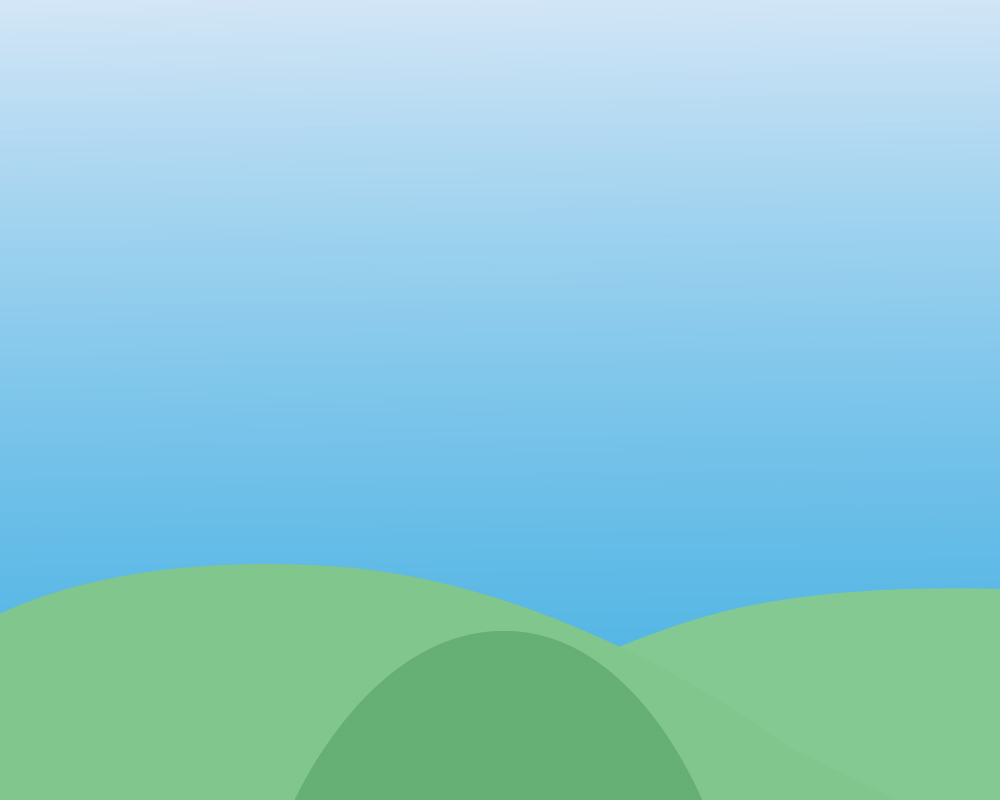
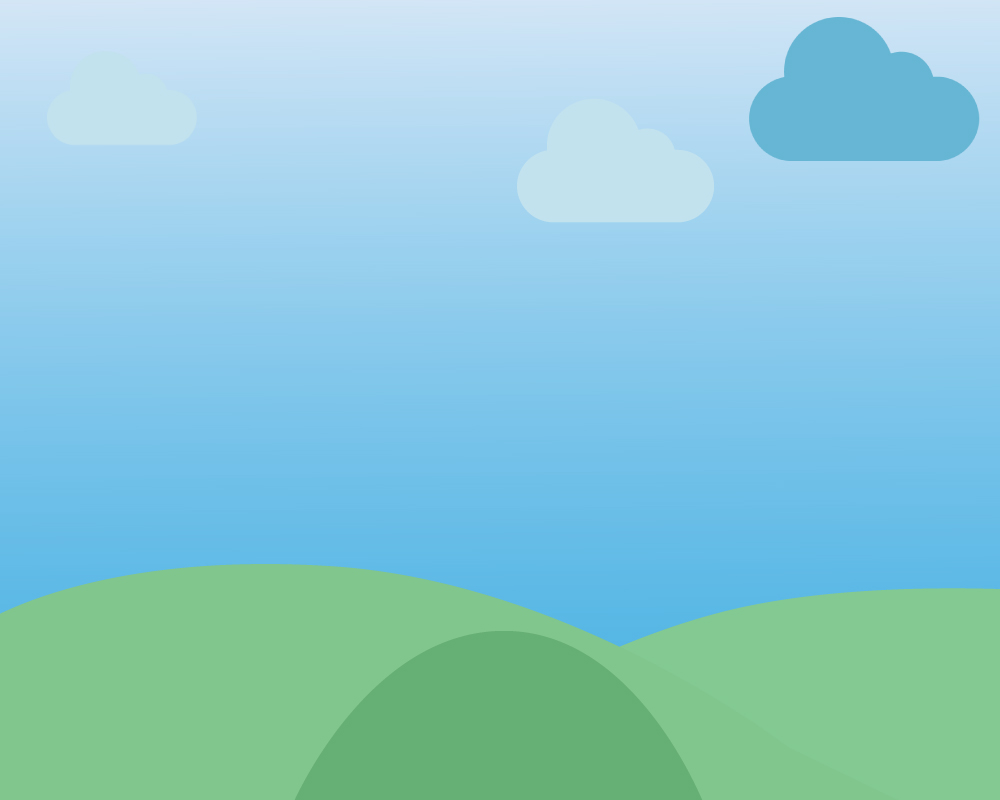
Clouds and sun installed

Changed region(s): [[0.744, 0.0, 0.992, 0.2188], [0.496, 0.2188, 0.713, 0.2812]]

diff --git a/css/main.css b/css/main.css
@@ -4,10 +4,75 @@ body {
   display: flex;
   align-items: center;
   justify-content: center;
-
+  background-color: #72C0E5;
 }
 .display{
   width: 1000px;
   height: 800px;
   background-image: url(../images/simple-background.jpg);
+}
+.size--normal {
+  margin: 40px;
+  max-width: 250px;
+}
+.sun {
+  animation: sun-slide-in 1.5s ease-out forwards, fade-in .8s;
+}
+.cloud {
+  animation: cloud-slide-in 2s ease-out forwards, fade-in .8s;
+}
+.cloud--small {
+  animation: small-cloud-slide-in 1s ease-out forwards, fade-in .8s;
+}
+.cloud__btn {
+  animation: btn-cloud-slide-in 2s ease-out forwards, fade-in .8s;
+}
+.cloud__btn:hover {
+
+}
+.cloud--hidden {
+  display: none;
+}
+
+@keyframes fade-in {
+  from {
+    opacity: 0;
+  }
+  to {
+    opacity: 1;
+  }
+}
+@keyframes sun-slide-in {
+  from {
+    transform: translate(-800px);
+    }
+  to {
+    transform: translate(80px);
+  }
+}
+@keyframes cloud-slide-in {
+  from {
+    transform: translate(1000px);
+    }
+  to {
+    transform: translate(200px);
+  }
+}
+@keyframes small-cloud-slide-in {
+  from {
+    transform: translate(-800px, -250px);
+    }
+  to {
+    transform: translate(-140px, -250px);
+
+  }
+}
+@keyframes btn-cloud-slide-in {
+  from {
+    transform: translate(-800px, -250px);
+    }
+  to {
+    transform: translate(-140px, -250px);
+
+  }
 }

diff --git a/index.html b/index.html
@@ -7,11 +7,11 @@
   </head>
   <body>
     <div class="display">
-
-
+      <img class="sun size--normal" src="images/sun.png" alt="Sun">
+      <img class="cloud size--normal" src="images/cloud1.png" alt="cloud 1">
+      <img class="cloud--small" src="images/cloud3.png" alt="cloud 3">
+      <img class="cloud__btn size--normal" src="images/cloud2.png" alt="cloud 2">
     </div>
-
-
 
 
 

diff --git a/js/main.js b/js/main.js
@@ -1,0 +1,1 @@
+// website loads
